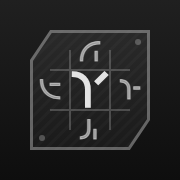
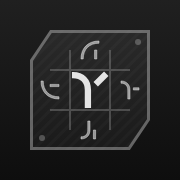
Render Sol letters as SVG in the font's shared monospace box; even padding

diff --git a/static/index.html b/static/index.html
@@ -9,13 +9,12 @@
   <meta name="apple-mobile-web-app-status-bar-style" content="black-translucent">
   <meta name="apple-mobile-web-app-title" content="Stardoku">
   <title>Stardoku</title>
[4 lines of base64/hex data omitted]
   <script>try { var h = localStorage.getItem("sudoku.hue"); if (h) document.documentElement.dataset.hue = h; } catch (e) {}</script>
   <link rel="preconnect" href="https://fonts.googleapis.com">
   <link rel="preconnect" href="https://fonts.gstatic.com" crossorigin>
   <link rel="stylesheet" href="https://fonts.googleapis.com/css2?family=Chakra+Petch:wght@400;500;600;700&family=Share+Tech+Mono&display=swap">
-  <link rel="preload" href="fonts/Sol-Regular.otf" as="font" type="font/otf" crossorigin>
   <link rel="stylesheet" href="style.css">
 </head>
 <body>
@@ -110,6 +109,7 @@
   </div>
 
   <script src="sudoku.js"></script>
+  <script src="sol.js"></script>
   <script src="app.js"></script>
 </body>
 </html>

diff --git a/icon/icon.html b/icon/icon.html
@@ -1,6 +1,6 @@
 <!doctype html><html><head>
 <link href="https://fonts.googleapis.com/css2?family=Chakra+Petch:wght@700&display=swap" rel="stylesheet">
-<style>@font-face{font-family:Sol;src:url("../static/fonts/Sol-Regular.otf")}html,body{margin:0;background:#000;overflow:hidden}svg{display:block}</style></head><body>
+<style>html,body{margin:0;background:#000;overflow:hidden}svg{display:block}</style></head><body>
 <svg id="i" xmlns="http://www.w3.org/2000/svg" width="180" height="180" viewBox="0 0 180 180">
 <defs>
  <linearGradient id="bg" x1="0" y1="0" x2="0" y2="1"><stop offset="0" stop-color="#202020"/><stop offset="1" stop-color="#0E0E0E"/></linearGradient>
@@ -13,11 +13,11 @@
 <path d="M51 31.5h97.5v88L129 148.5H31.5V60.5z" fill="none" stroke="#A1A1A1" stroke-opacity=".55" stroke-width="3"/>
 <g stroke="#A1A1A1" stroke-opacity=".35" stroke-width="2"><path d="M70 50v80M110 50v80M50 70h80M50 110h80"/></g>
 <g fill="#E4E4E4" fill-opacity=".28"><circle cx="138" cy="42" r="3"/><circle cx="42" cy="138" r="3"/></g>
-<g font-family="Sol" text-anchor="middle" fill="#E4E4E4">
- <text x="90" y="107" font-size="54" stroke="#E4E4E4" stroke-width="1.5">s</text>
- <text x="130" y="99" font-size="30" fill-opacity=".6" stroke="#E4E4E4" stroke-opacity=".6" stroke-width="1">r</text>
- <text x="90" y="61" font-size="30" fill-opacity=".6" stroke="#E4E4E4" stroke-opacity=".6" stroke-width="1">b</text>
- <text x="50" y="99" font-size="30" fill-opacity=".6" stroke="#E4E4E4" stroke-opacity=".6" stroke-width="1">f</text>
- <text x="90" y="139" font-size="30" fill-opacity=".6" stroke="#E4E4E4" stroke-opacity=".6" stroke-width="1">l</text>
+<g fill="#E4E4E4">
+ <path transform="translate(73.00 73.00) scale(0.05231) translate(-125 650) scale(1 -1)" d="M601.8 420.2 775 593.4 718.4 650 545.2 476.8ZM370 0H450V325C450 522 322.1 650 125 650V570C204.1 570 264.2 545.5 304.8 504.8C345.5 464.2 370 404.1 370 325Z" stroke="#E4E4E4" stroke-width="40"/>
+ <path transform="translate(121.00 81.00) scale(0.02769) translate(-125 650) scale(1 -1)" d="M570 325H775V405H570ZM370 0H450V325C450 522 322.1 650 125 650V570C204.1 570 264.2 545.5 304.8 504.8C345.5 464.2 370 404.1 370 325Z" fill-opacity=".6" stroke="#E4E4E4" stroke-opacity=".6" stroke-width="30"/>
+ <path transform="translate(81.00 41.00) scale(0.02769) translate(-125 650) scale(1 -1)" d="M695 325H615V0H695ZM775 570V650C377.9 650 125 397.1 125 0H205C205 353 422.1 570 775 570Z" fill-opacity=".6" stroke="#E4E4E4" stroke-opacity=".6" stroke-width="30"/>
+ <path transform="translate(41.00 81.00) scale(0.02769) translate(-125 650) scale(1 -1)" d="M450 447.5H775V527.5H450ZM775 80C422.1 80 205 297 205 650H125C125 252.9 377.9 0 775 0Z" fill-opacity=".6" stroke="#E4E4E4" stroke-opacity=".6" stroke-width="30"/>
+ <path transform="translate(81.00 121.00) scale(0.02769) translate(-125 650) scale(1 -1)" d="M652.5 325H572.5V0H652.5ZM370 650V325C370 245.9 345.5 185.8 304.8 145.2C264.2 104.5 204.1 80 125 80V0C322.1 0 450 128 450 325V650Z" fill-opacity=".6" stroke="#E4E4E4" stroke-opacity=".6" stroke-width="30"/>
 </g>
 </svg></body></html>

diff --git a/static/style.css b/static/style.css
@@ -1,4 +1,3 @@
-@font-face { font-family: "Sol"; src: url("fonts/Sol-Regular.otf") format("opentype"); font-display: block; }
 :root {
   --bg: #111111;
   --surface: #1B1B1B;
@@ -20,7 +19,6 @@
   --radius: 4px;
   --chamfer: 12px;
   --font: "Chakra Petch", "Rajdhani", system-ui, sans-serif;
-  --sol: "Sol", var(--font);
   --mono: "Share Tech Mono", ui-monospace, "SF Mono", Menlo, monospace;
   --safe-top: env(safe-area-inset-top, 0px);
   --safe-bottom: env(safe-area-inset-bottom, 0px);
@@ -169,11 +167,11 @@ button:focus-visible, .cell:focus-visible { outline: 2px solid var(--accent); ou
 .cell.flash { animation: flash 0.6s ease-out; }
 @keyframes flash { from { background: rgba(var(--accent-rgb), 0.55); } }
 
-.cell .v, .notes, .key b { font-family: var(--sol); font-weight: 400; font-synthesis: none; }
-.cell .v { font-size: 1.45em; transform: translateY(-0.04em); }
-.cell.given .v { -webkit-text-stroke: 0.035em currentColor; }
+.sym { display: block; width: 100%; height: 100%; fill: currentColor; overflow: visible; }
+.cell .v { display: block; width: 40%; aspect-ratio: 1; }
+.cell.given .sym path { stroke: currentColor; stroke-width: 24; stroke-linejoin: round; }
 .notes {
-  position: absolute; inset: 10%;
+  position: absolute; inset: 12%;
   display: grid;
   grid-template-columns: repeat(3, 1fr);
   grid-template-rows: repeat(3, 1fr);
@@ -182,6 +180,8 @@ button:focus-visible, .cell:focus-visible { outline: 2px solid var(--accent); ou
   color: color-mix(in srgb, var(--text) 50%, transparent);
 }
 .notes span { display: grid; place-items: center; }
+.notes .sym { width: 58%; height: 58%; }
+.notes span:not(.on) .sym { visibility: hidden; }
 .notes span.match { color: var(--accent-fg); background: var(--accent); }
 
 .tools { display: grid; grid-auto-flow: column; grid-auto-columns: 1fr; gap: 8px; }
@@ -218,7 +218,7 @@ button:focus-visible, .cell:focus-visible { outline: 2px solid var(--accent); ou
   clip-path: polygon(7px 0, 100% 0, 100% calc(100% - 7px), calc(100% - 7px) 100%, 0 100%, 0 7px);
   color: var(--text);
 }
-.key b { font-size: 38px; line-height: 1; }
+.key b { display: block; width: min(50%, 22px); aspect-ratio: 1; }
 .key:active { background-color: rgba(var(--accent-rgb), 0.3); }
 .key.complete { opacity: 0.32; }
 .notes-on .key {
@@ -365,7 +365,7 @@ dialog.sheet.closing::backdrop { opacity: 0; }
 @media (max-width: 370px) {
   .app { padding-left: 10px; padding-right: 10px; }
   .key { height: 50px; }
-  .key b { font-size: 30px; }
+  .key b { width: min(50%, 18px); }
   .pad { gap: 4px; }
 }
 @media (min-width: 720px) {

diff --git a/static/app.js b/static/app.js
@@ -3,6 +3,9 @@
   const KEY = "sudoku.v1";
   // Sol letters (github.com/menehune23/sol): the vowel root h, then the eight base consonants, in Sol order.
   const SYM = [null, "h", "b", "d", "f", "g", "l", "m", "r", "s"];
+  const symSVG = (d) => {
+    return `<svg class="sym" viewBox="${window.SOL.box.join(" ")}" aria-hidden="true"><path transform="scale(1,-1)" d="${window.SOL.glyphs[SYM[d]]}"/></svg>`;
+  };
   const BEST_KEY = "sudoku.best";
   const LEVELS = [
     ["easy", "Easy", 1, "Lots of clues · singles only"],
@@ -50,7 +53,7 @@
     el.type = "button";
     el.dataset.i = i;
     el.setAttribute("role", "gridcell");
-    el.innerHTML = `<span class="v"></span><div class="notes" aria-hidden="true">${[1, 2, 3, 4, 5, 6, 7, 8, 9].map(() => "<span></span>").join("")}</div>`;
+    el.innerHTML = `<span class="v"></span><div class="notes" aria-hidden="true">${[1, 2, 3, 4, 5, 6, 7, 8, 9].map((d) => `<span>${symSVG(d)}</span>`).join("")}</div>`;
     el.addEventListener("click", () => select(i));
     boardEl.appendChild(el);
     cells.push(el);
@@ -63,7 +66,7 @@
     const k = document.createElement("button");
     k.className = "key";
     k.type = "button";
-    k.innerHTML = `<b>${SYM[d]}</b>`;
+    k.innerHTML = `<b>${symSVG(d)}</b>`;
     k.setAttribute("aria-label", `Enter ${SYM[d]}`);
     k.addEventListener("click", () => input(d));
     padEl.appendChild(k);
@@ -84,11 +87,14 @@
       el.classList.toggle("sel", i === selected);
       el.classList.toggle("peer", peers.has(i));
       el.classList.toggle("same", i !== selected && selVal !== 0 && v === selVal);
-      el.firstChild.textContent = v ? SYM[v] : "";
+      if (el.firstChild.dataset.v !== String(v)) {
+        el.firstChild.dataset.v = v;
+        el.firstChild.innerHTML = v ? symSVG(v) : "";
+      }
       const noteEls = el.lastChild.children;
       for (let d = 1; d <= 9; d++) {
         const on = !v && (notes[i] & (1 << (d - 1)));
-        noteEls[d - 1].textContent = on ? SYM[d] : "";
+        noteEls[d - 1].classList.toggle("on", Boolean(on));
         noteEls[d - 1].classList.toggle("match", Boolean(on) && d === selVal);
       }
       const r = Math.floor(i / 9) + 1, c = (i % 9) + 1;

diff --git a/static/sol.js b/static/sol.js
@@ -1,0 +1,2 @@
+// Generated by tools/make_sol.py from Sol-Regular.otf (github.com/menehune23/sol, SIL OFL 1.1).
+window.SOL = {"box":[125,-650,650,650],"glyphs":{"h":"M125 245H450C529.1 245 589.2 220.5 629.8 179.8C670.5 139.2 695 79.1 695 0H775C775 197.1 647 325 450 325H125Z","b":"M695 325H615V0H695ZM775 570V650C377.9 650 125 397.1 125 0H205C205 353 422.1 570 775 570Z","d":"M545.8 286.4 489.2 229.8 719 0 775.6 56.6ZM775 570V650C377.9 650 125 397.1 125 0H205C205 353 422.1 570 775 570Z","f":"M450 447.5H775V527.5H450ZM775 80C422.1 80 205 297 205 650H125C125 252.9 377.9 0 775 0Z","g":"M545.8 363.6 775.6 593.4 719 650 489.2 420.2ZM775 80C422.1 80 205 297 205 650H125C125 252.9 377.9 0 775 0Z","l":"M652.5 325H572.5V0H652.5ZM370 650V325C370 245.9 345.5 185.8 304.8 145.2C264.2 104.5 204.1 80 125 80V0C322.1 0 450 128 450 325V650Z","m":"M601.8 229.8 545.2 173.2 718.4 0 775 56.6ZM370 650V325C370 245.9 345.5 185.8 304.8 145.2C264.2 104.5 204.1 80 125 80V0C322.1 0 450 128 450 325V650Z","r":"M570 325H775V405H570ZM370 0H450V325C450 522 322.1 650 125 650V570C204.1 570 264.2 545.5 304.8 504.8C345.5 464.2 370 404.1 370 325Z","s":"M601.8 420.2 775 593.4 718.4 650 545.2 476.8ZM370 0H450V325C450 522 322.1 650 125 650V570C204.1 570 264.2 545.5 304.8 504.8C345.5 464.2 370 404.1 370 325Z"}};

diff --git a/tools/make_sol.py b/tools/make_sol.py
@@ -1,0 +1,26 @@
+"""Extract the nine Sol glyphs as SVG paths sharing the font's common letter box."""
+import json, os
+from fontTools.ttLib import TTFont
+from fontTools.pens.boundsPen import BoundsPen
+from fontTools.pens.svgPathPen import SVGPathPen
+
+ROOT = os.path.dirname(os.path.dirname(os.path.abspath(__file__)))
+LETTERS = "hbdfglmrs"
+
+font = TTFont(os.path.join(ROOT, "static", "fonts", "Sol-Regular.otf"))
+gs, cmap = font.getGlyphSet(), font.getBestCmap()
+glyphs, bounds = {}, []
+for ch in LETTERS:
+    g = gs[cmap[ord(ch)]]
+    bp = BoundsPen(gs); g.draw(bp); bounds.append(bp.bounds)
+    pp = SVGPathPen(gs, lambda v: f"{v:.1f}".rstrip("0").rstrip(".")); g.draw(pp)
+    glyphs[ch] = pp.getCommands()
+# Sol is monospaced: every letter shares one design box, so use the union of their bounds.
+x0 = min(b[0] for b in bounds); y0 = min(b[1] for b in bounds)
+x1 = max(b[2] for b in bounds); y1 = max(b[3] for b in bounds)
+adv = gs[cmap[ord(LETTERS[0])]].width
+out = {"box": [round(x0), round(-y1), round(adv - 2 * x0), round(y1 - y0)], "glyphs": glyphs}
+with open(os.path.join(ROOT, "static", "sol.js"), "w") as f:
+    f.write("// Generated by tools/make_sol.py from Sol-Regular.otf (github.com/menehune23/sol, SIL OFL 1.1).\n")
+    f.write("window.SOL = " + json.dumps(out, separators=(",", ":")) + ";\n")
+print(out["box"])
